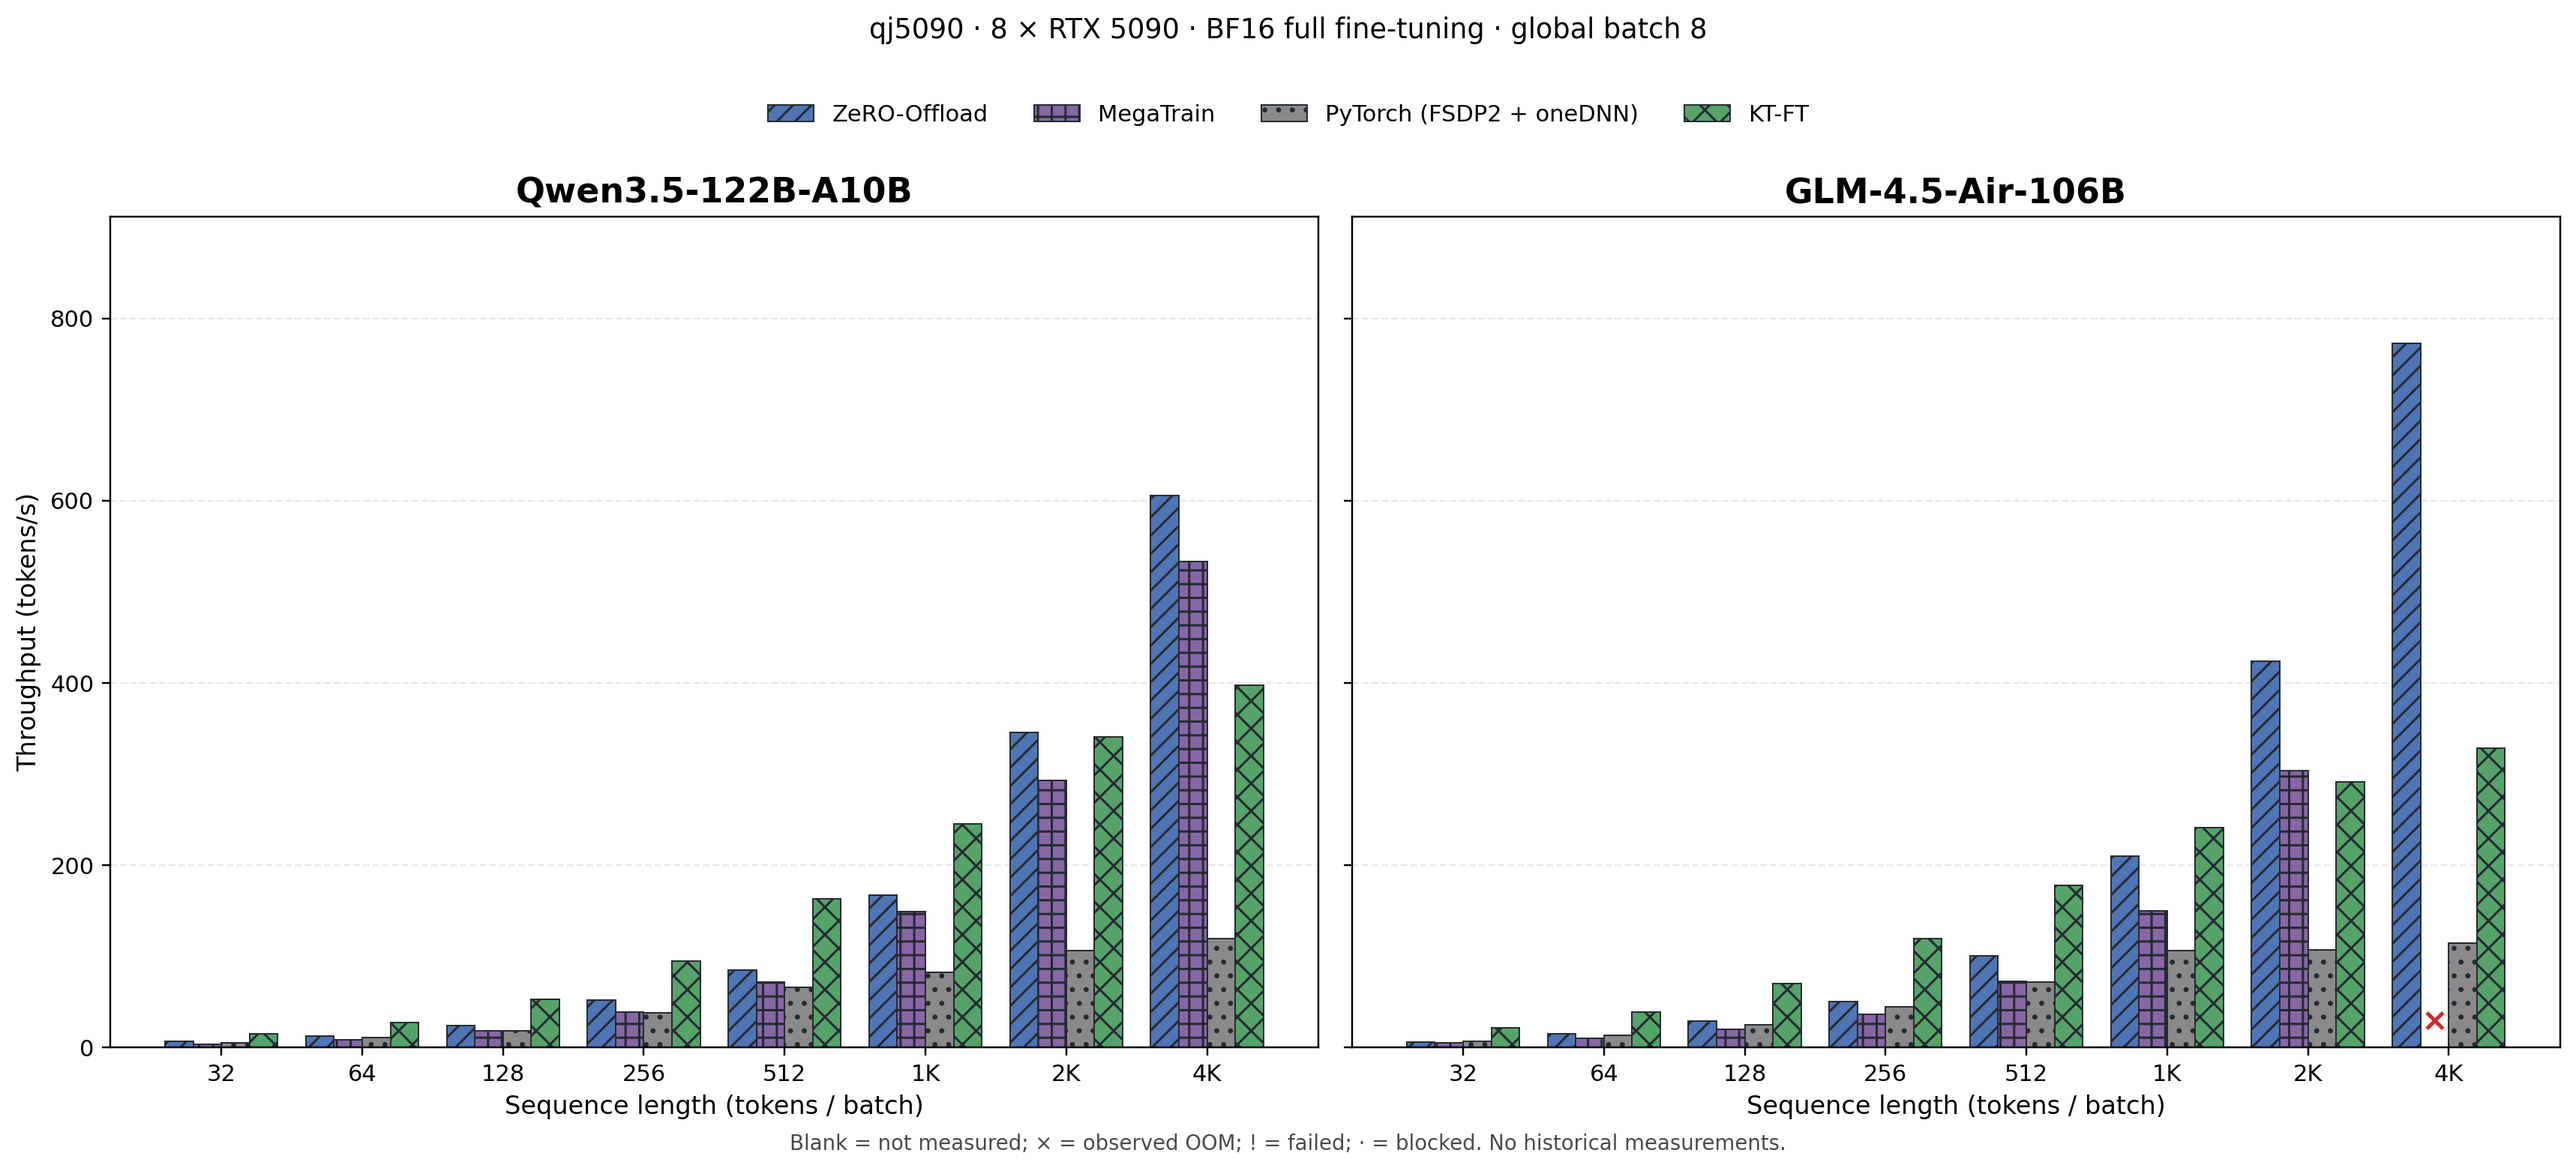
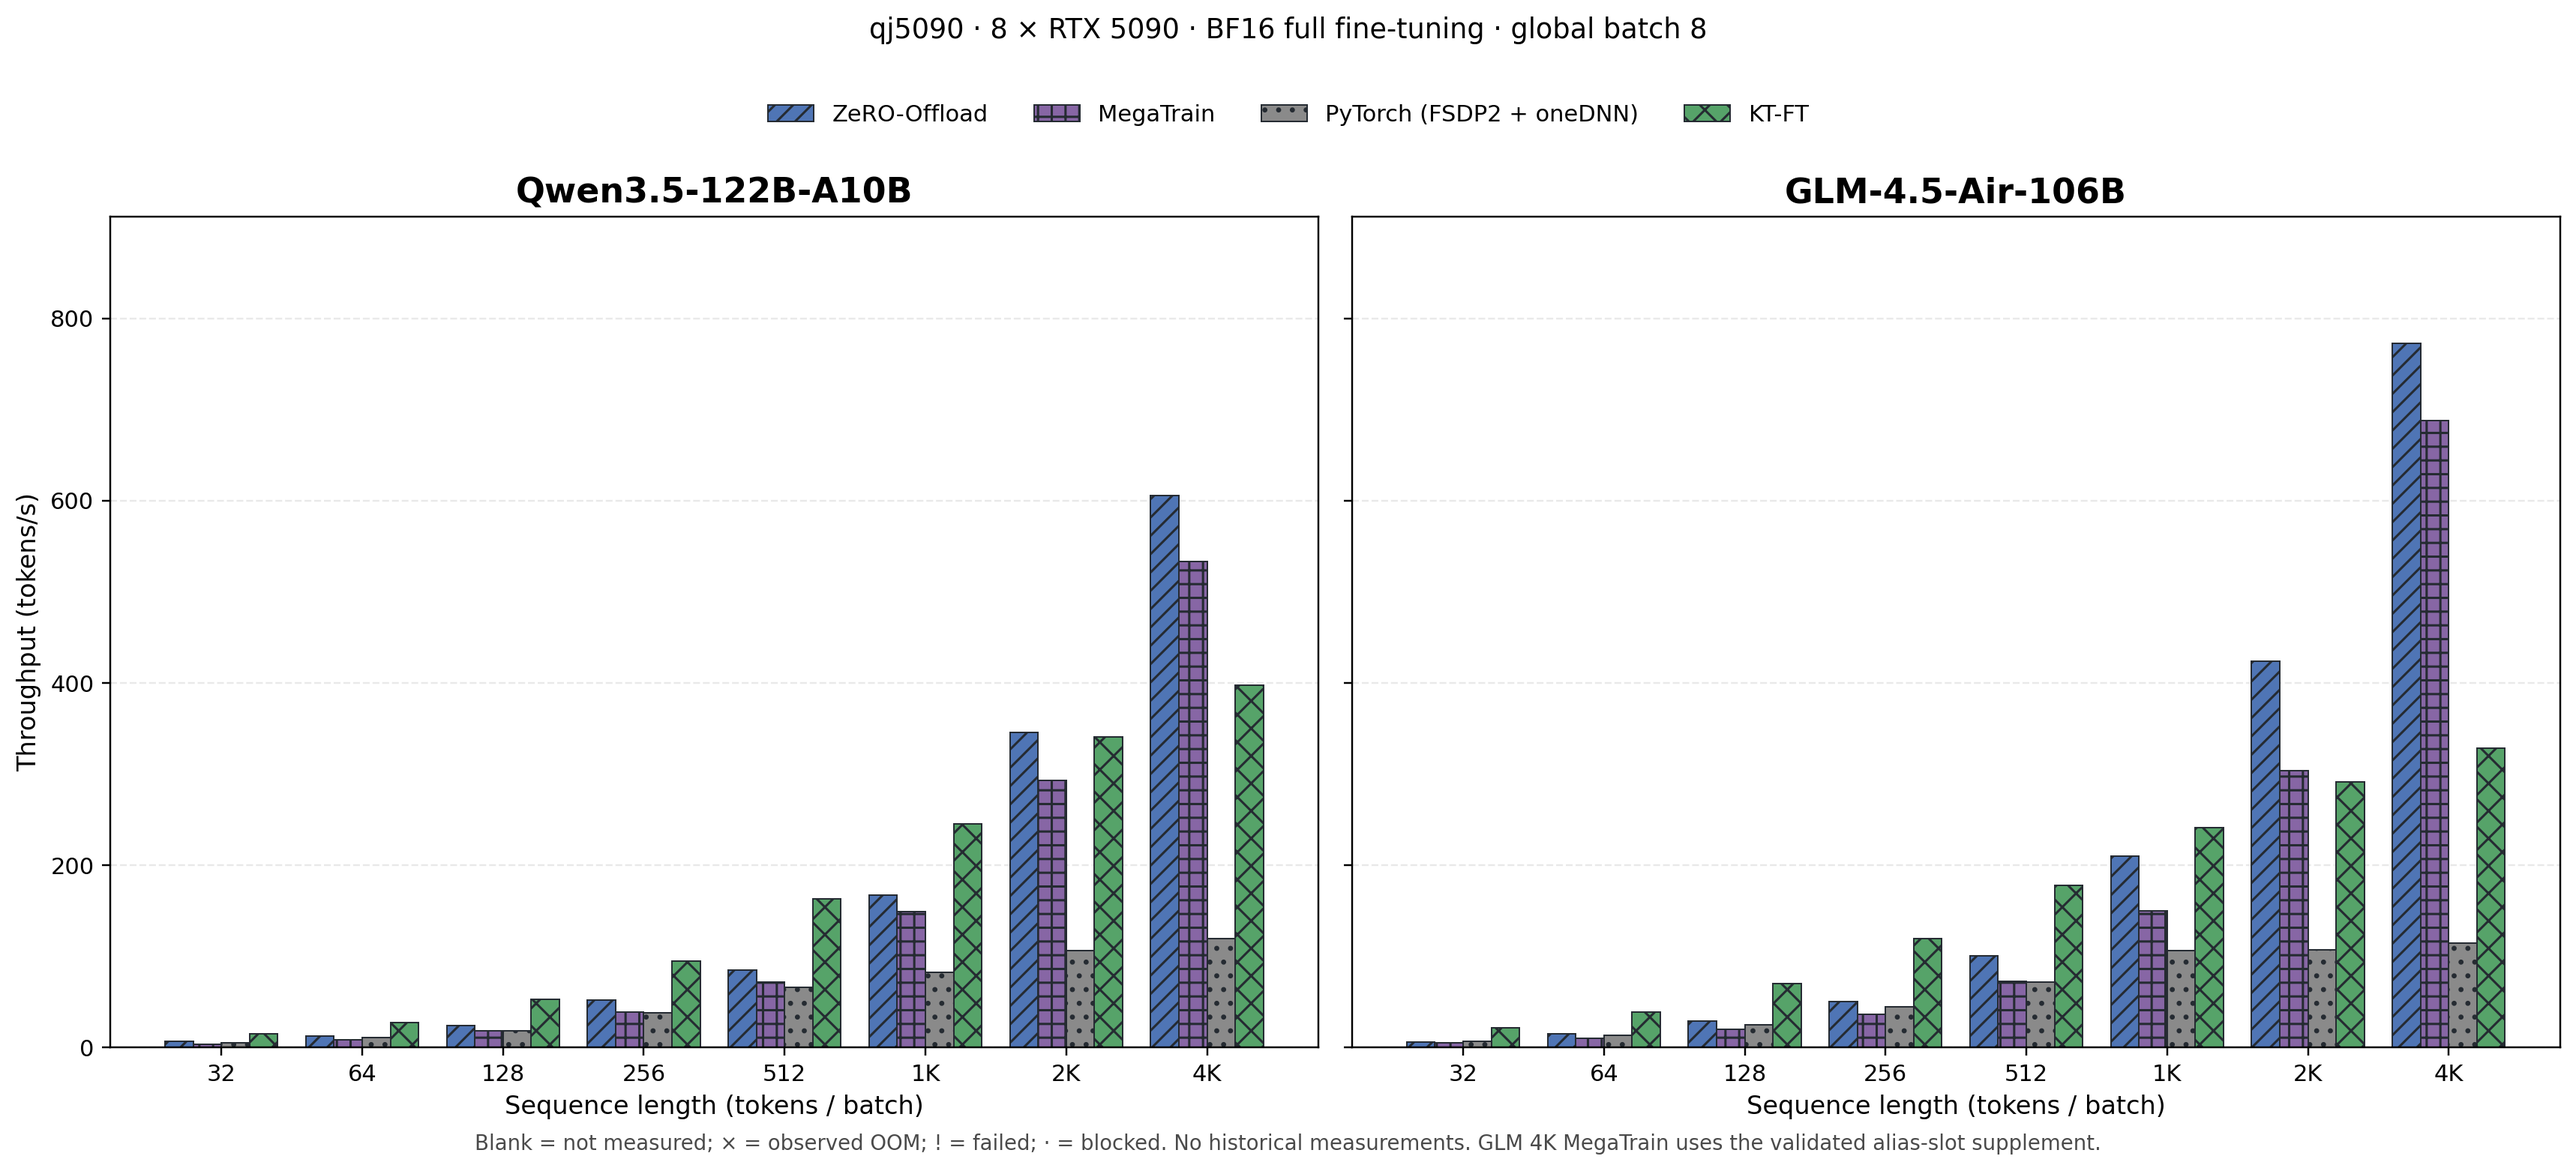
Sync qj5090 MegaTrain measurements

Changed region(s): [[0.1869, 0.9526, 0.8099, 0.9834], [0.9345, 0.338, 0.9656, 0.8912]]

diff --git a/results/qj5090_performance_tables.md b/results/qj5090_performance_tables.md
@@ -76,6 +76,7 @@
 | 512 | 29.39 | 4720.80 | 56.368 | 72.66 | 5.413 | 32.928 | 15.501 |
 | 1024 | 30.38 | 4726.37 | 54.745 | 149.64 | 5.484 | 31.334 | 15.093 |
 | 2048 | 30.81 | 4726.39 | 53.980 | 303.52 | 5.436 | 31.040 | 14.508 |
+| 4096 | 25.14 | 4858.57 | 47.631 | 687.96 | 4.729 | 26.124 | 14.760 |
 
 ## GLM-4.5-Air-106B · PyTorch (FSDP2 + oneDNN)
 
